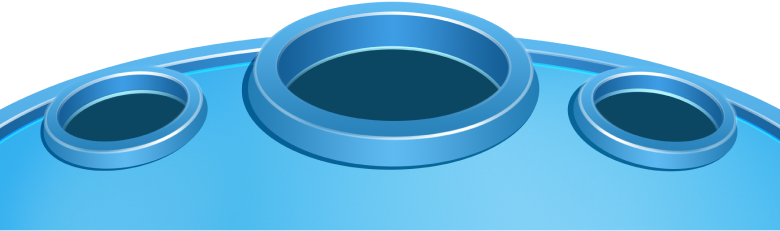
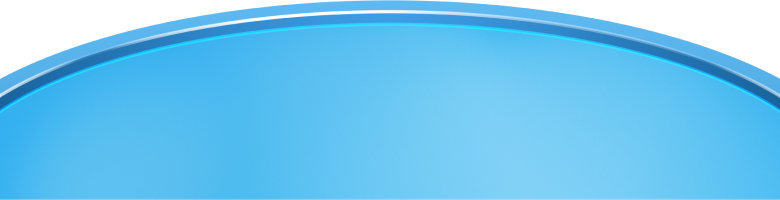
Refine bottom menu size and position.

diff --git a/src/app/main/components/home/home.component.scss b/src/app/main/components/home/home.component.scss
@@ -183,61 +183,101 @@
 }
 
 .bottom-menu {
-    @include size(100vw, 29.61vw);
+    @include size(100vw, 25.64vw);
     display: flex;
     flex-direction: column;
     background-image: url(image-assets("home/bottom-menu.png"));
-    padding: 0 5.26vw 2vw;
     bottom: 0;
 
-    .icon {
-        flex: 1;
+    .holes {
+        --menu-width: min(81.4vw, 550px);
+        width: var(--menu-width);
+        height: calc(var(--menu-width) * 0.21794);
         display: grid;
-        grid-template-columns: 1fr 1fr 1fr;
-        animation: bottom-menu 2s infinite alternate-reverse;
-
-        .menu {
-            margin-bottom: 1vw;
-            cursor: pointer;
-        }
-
-        .coup {
-            @include size(15.77vw, 17.435vw);
-            background-image: url(image-assets("home/coup.png"));
-            margin-top: -3vw;
-            margin-left: 1vw;
-        }
-
-        .go {
-            @include size(16.025vw, 16.6vw);
-            background-image: url(image-assets("home/go.png"));
-            justify-self: center;
-            margin-top: -8vw;
-        }
-
-        .shop {
-            @include size(19.743vw, 20.128vw);
-            background-image: url(image-assets("home/shop.png"));
-            justify-self: end;
-            margin-top: -4vw;
-        }
+        grid-template-columns: 26.14% 46.928% 26.93%;
+        grid-template-rows: 100%;
+        align-self: center;
+        position: absolute;
+        bottom: calc(var(--menu-width) / 10.5);
     }
 
-    .text {
+    .hole {
+        width: 100%;
+        height: var(--hole-height);
         display: flex;
-        justify-content: space-between;
-        align-items: flex-end;
+        flex-direction: column;
+        align-items: center;
+        justify-content: flex-end;
+        align-self: flex-end;
+    }
+
+    .hole-left {
+        --hole-height: 75.857%;
+        background-image: url(image-assets("home/hole-left.png"));
+        justify-self: flex-end;
+        margin-right: 4.48%;
+    }
+
+    .hole-center {
+        --hole-height: 123%;
+        background-image: url(image-assets("home/hole-center.png"));
+        justify-self: center;
+    }
+
+    .hole-right {
+        --hole-height: 78.037%;
+        background-image: url(image-assets("home/hole-right.png"));
+        justify-self: flex-start;
+        margin-left: 3.59%;
+    }
+
+    .menu {
+        width: var(--width);
+        height: 0;
+        padding-top: var(--height);
+        margin-bottom: 2vw;
+        cursor: pointer;
+        animation: bottom-menu 2s infinite alternate-reverse;
+        // grid-template-columns: 21.28vw 38.2vw 21.923vw;
+    }
+
+    .coup {
+        --width: 74.1%;
+        --height: 82%;
+        // @include size(15.77vw, 17.435vw, true);
+        background-image: url(image-assets("home/coup.png"));
+        margin-right: 15%;
+    }
+
+    .go {
+        --width: 41.95%;
+        --height: 43%;
+        // @include size(16.025vw, 16.6vw, true);
+        background-image: url(image-assets("home/go.png"));
+        margin-bottom: 20%;
+    }
+
+    .shop {
+        --width: 90%;
+        --height: 90%;
+        // @include size(19.743vw, 20.128vw, true);
+        background-image: url(image-assets("home/shop.png"));
+        margin-left: 5%;
     }
 }
 
 .text-box {
-    @include size(19.61vw, 5vw);
+    @include size(calc(var(--menu-width) * 0.24), calc(var(--menu-width) * 0.0614));
+    min-width: calc(var(--menu-width) * 0.24);
+    min-height: calc(var(--menu-width) * 0.0614);
     box-shadow: 1px 1px 1px #012769 inset, 0px 2px 1px #05407E inset;
     border-color: #6497D8;
     @extend %text;
+    font-size: calc(var(--menu-width) * 0.043);
     border-style: solid;
     border-left-width: 1px;
     border-top-width: 1px;
     border-bottom-width: 0;
     border-right-width: 0;
+    transform: translateY(calc(var(--menu-width) * 0.0675));
 }

diff --git a/src/app/main/components/home/home.component.html b/src/app/main/components/home/home.component.html
@@ -20,14 +20,18 @@
 </div>
 <div class="bottom-cloud"></div>
 <div class="bottom-menu">
-    <div class="icon">
-        <button class="menu btn-light coup" routerLink="/main/rank"></button>
-        <button class="menu btn-light go" routerLink="/main/game"></button>
-        <button class="menu btn-light shop" routerLink="/main/shop"></button>
-    </div>
-    <div class="text">
-        <div class="text-box">排行榜</div>
-        <div class="text-box">关卡: 3</div>
-        <div class="text-box">商店</div>
+    <div class="holes">
+        <div class="hole hole-left">
+            <button class="menu btn-light coup" routerLink="/main/rank"></button>
+            <div class="text-box">排行榜</div>
+        </div>
+        <div class="hole hole-center">
+            <button class="menu btn-light go" routerLink="/main/game"></button>
+            <div class="text-box">关卡: 3</div>
+        </div>
+        <div class="hole hole-right">
+            <button class="menu btn-light shop" routerLink="/main/shop"></button>
+            <div class="text-box">商店</div>
+        </div>
     </div>
 </div>

diff --git a/src/styles/shared/_mixin.scss b/src/styles/shared/_mixin.scss
@@ -1,4 +1,9 @@
-@mixin size($width, $height: $width) {
+@mixin size($width, $height: $width, $min: false) {
     width: $width;
     height: $height;
+
+    @if $min {
+        min-width: $width;
+        min-height: $height;
+    }
 }

diff --git a/src/app/account/components/login/login.component.scss b/src/app/account/components/login/login.component.scss
@@ -54,10 +54,6 @@
     @extend %layer;
 }
 
-.center {
-    left: calc((100vw - var(--width)) / 2);
-}
-
 .vine {
     --width: 100%;
     height: 45.58vw;

diff --git a/src/styles/shared/_placeholder.scss b/src/styles/shared/_placeholder.scss
@@ -1,4 +1,8 @@
 %layer {
     position: absolute;
     width: var(--width);
+
+    &.center {
+        left: calc((100vw - var(--width)) / 2);
+    }
 }
